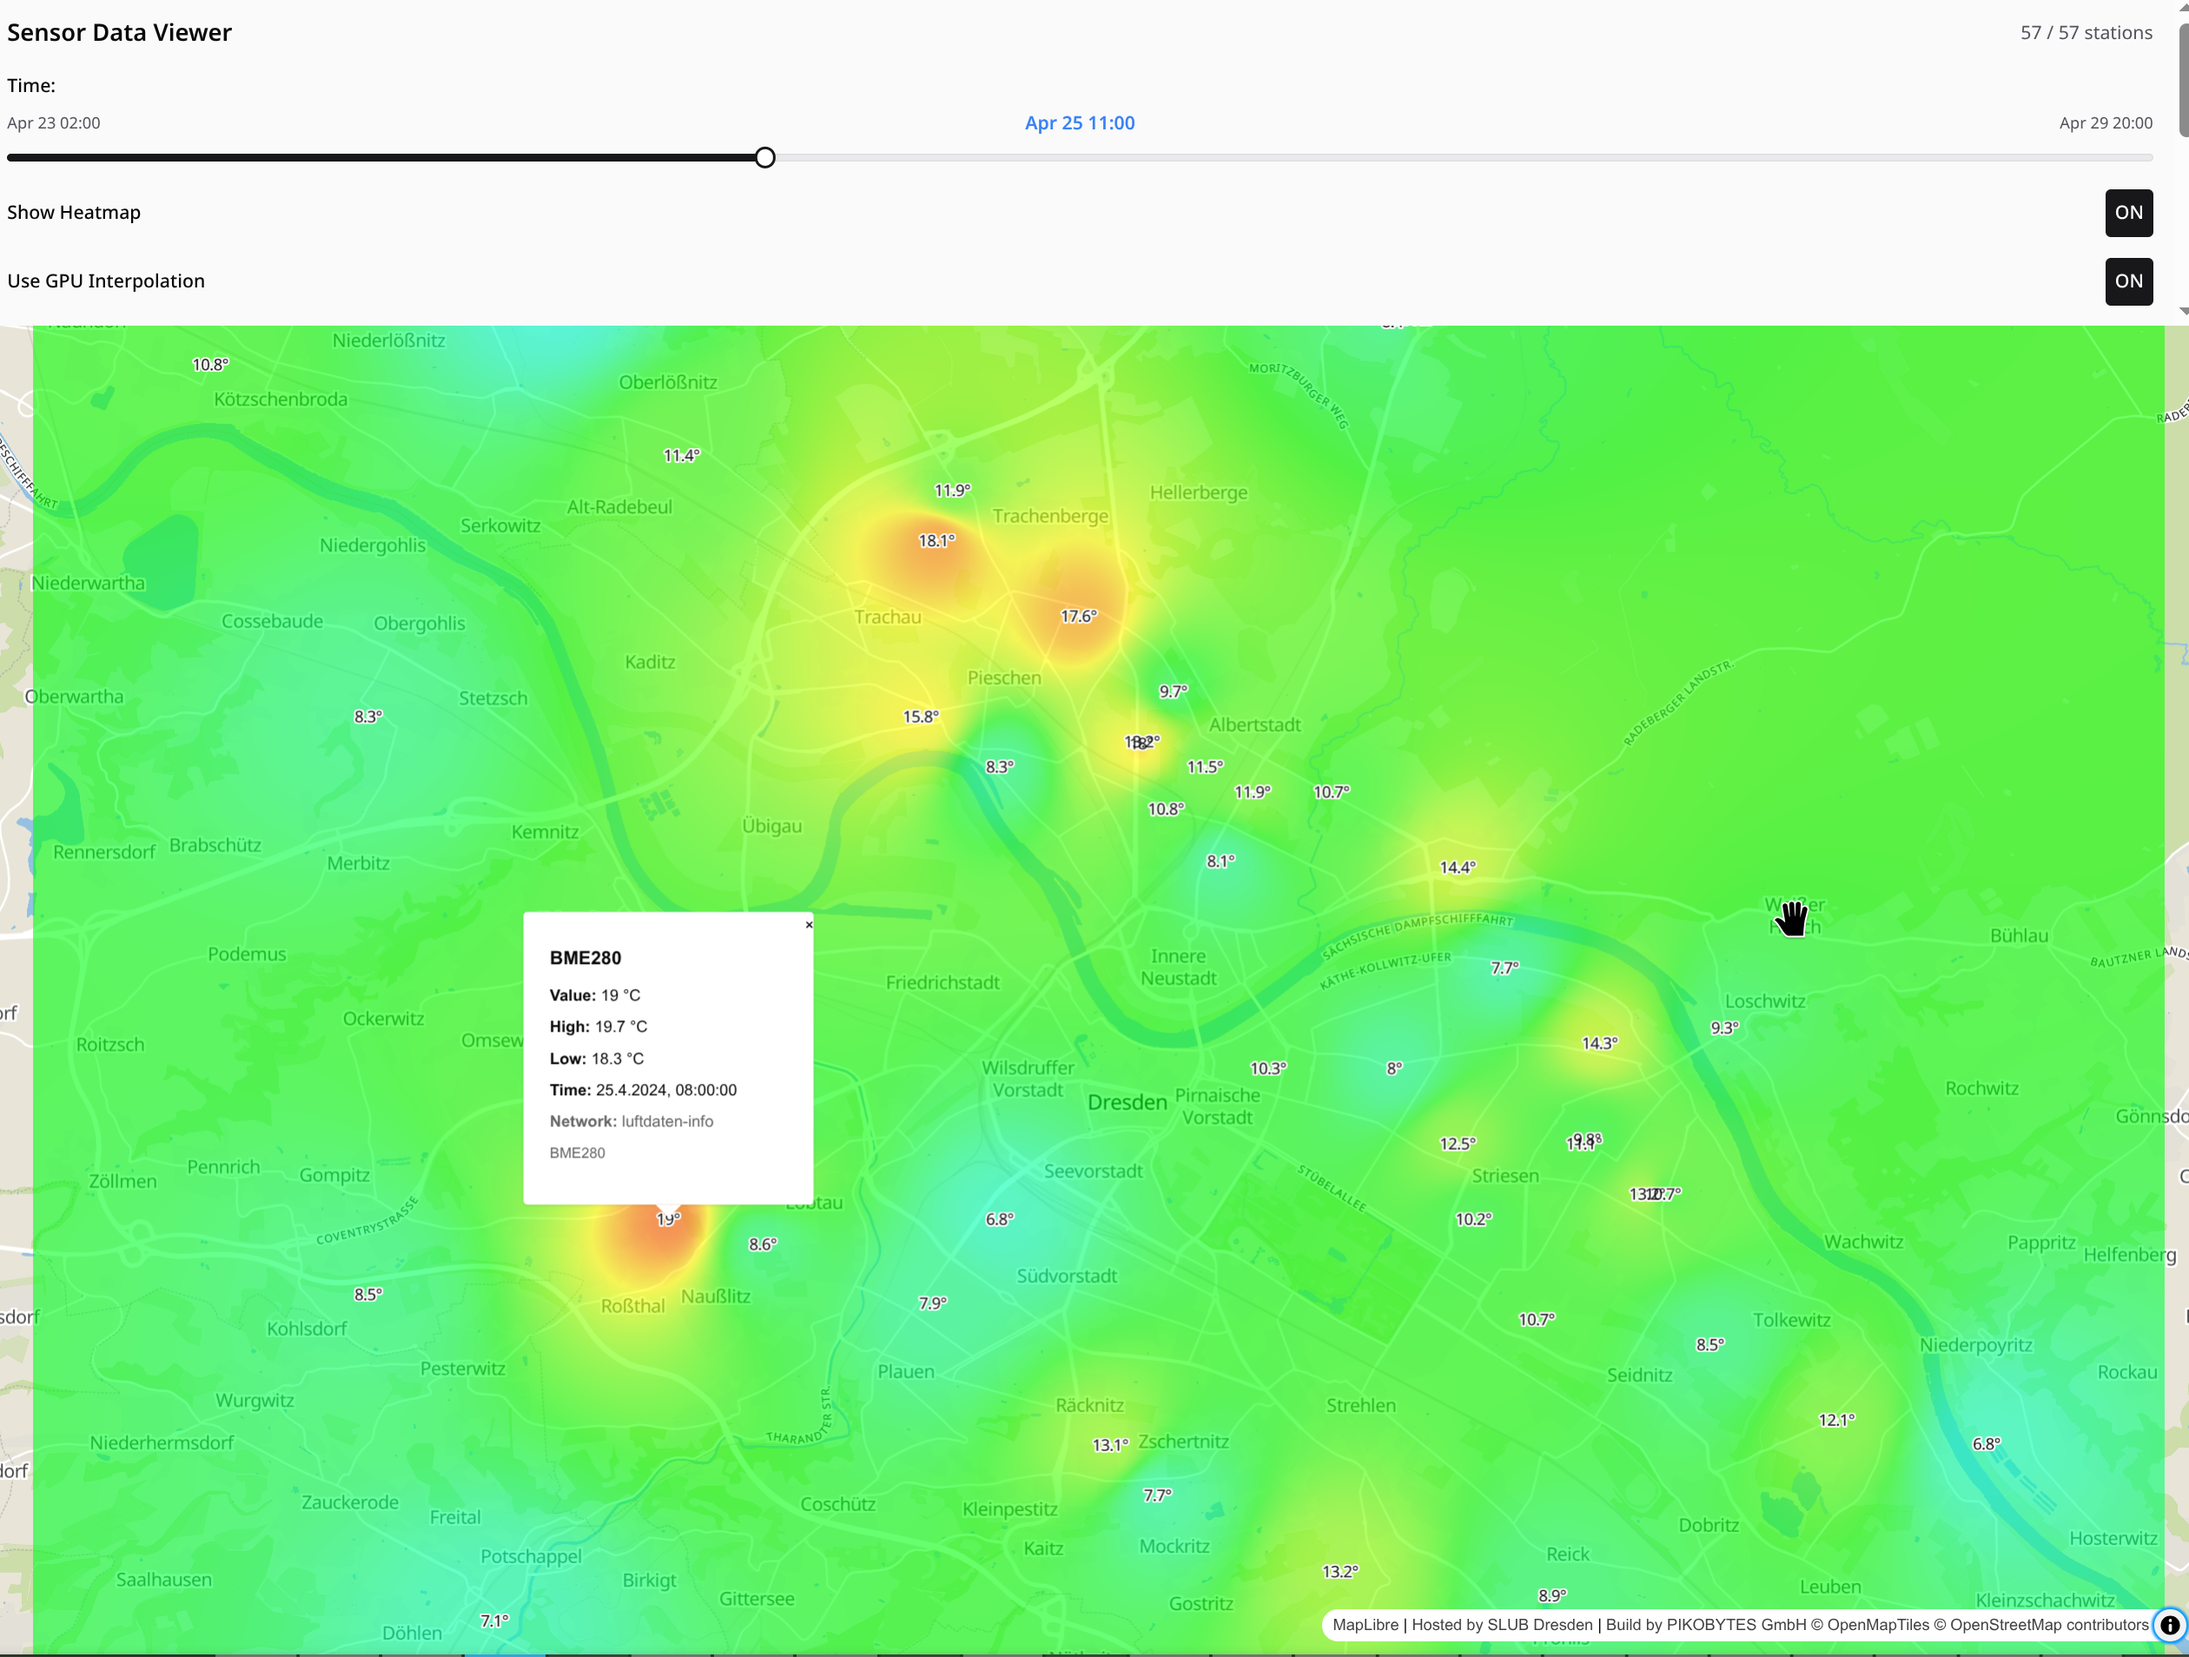
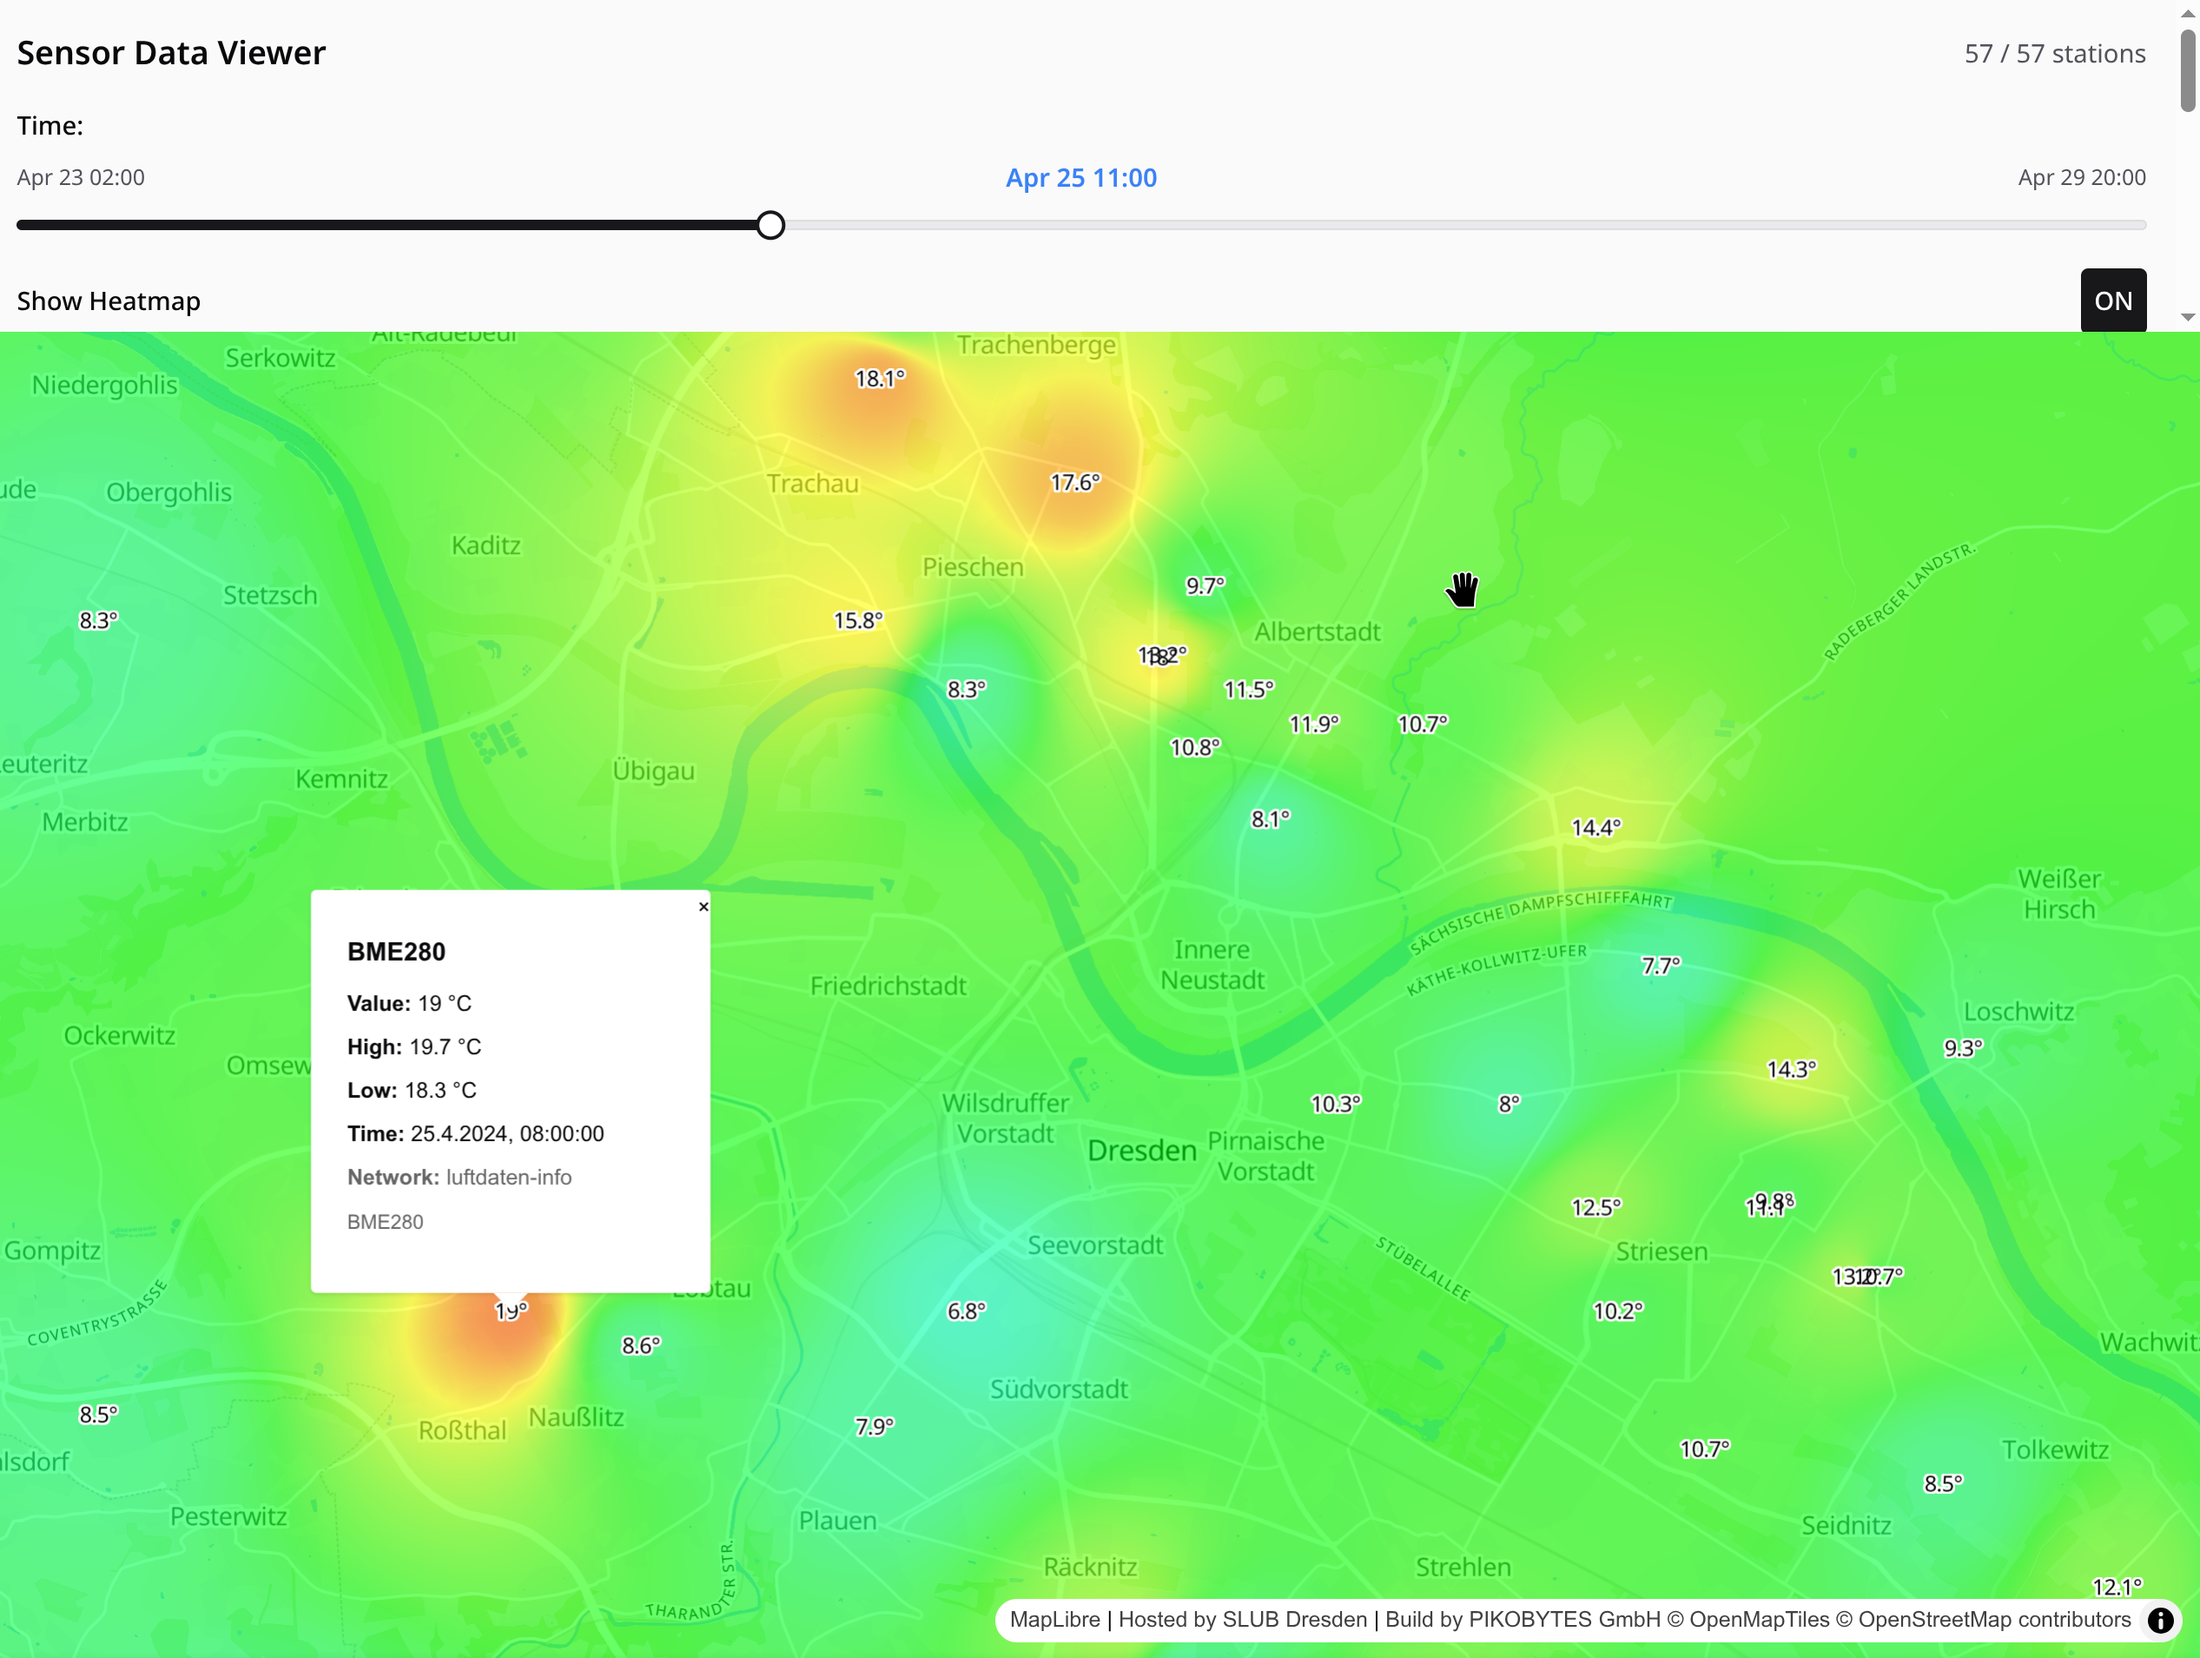
chore: Update README to reflect deployment status and replace build badge; update heatmap screenshot

diff --git a/README.md b/README.md
@@ -1,6 +1,5 @@
 # Sensor Map Demo
-
-![Build Status](https://github.com/bastiion/sensor-data-demo/actions/workflows/main.yml/badge.svg)
+[![Deploy to GitHub Pages](https://github.com/bastiion/sensor-data-demo/actions/workflows/deploy.yml/badge.svg)](https://github.com/bastiion/sensor-data-demo/actions/workflows/deploy.yml)
 
 > **Note:** This repository has 3 branches:
 > - The state of the main application from 2025-11-18 in the [2025-11-18 branch](https://github.com/bastiion/sensor-data-demo/tree/2025-11-18)
